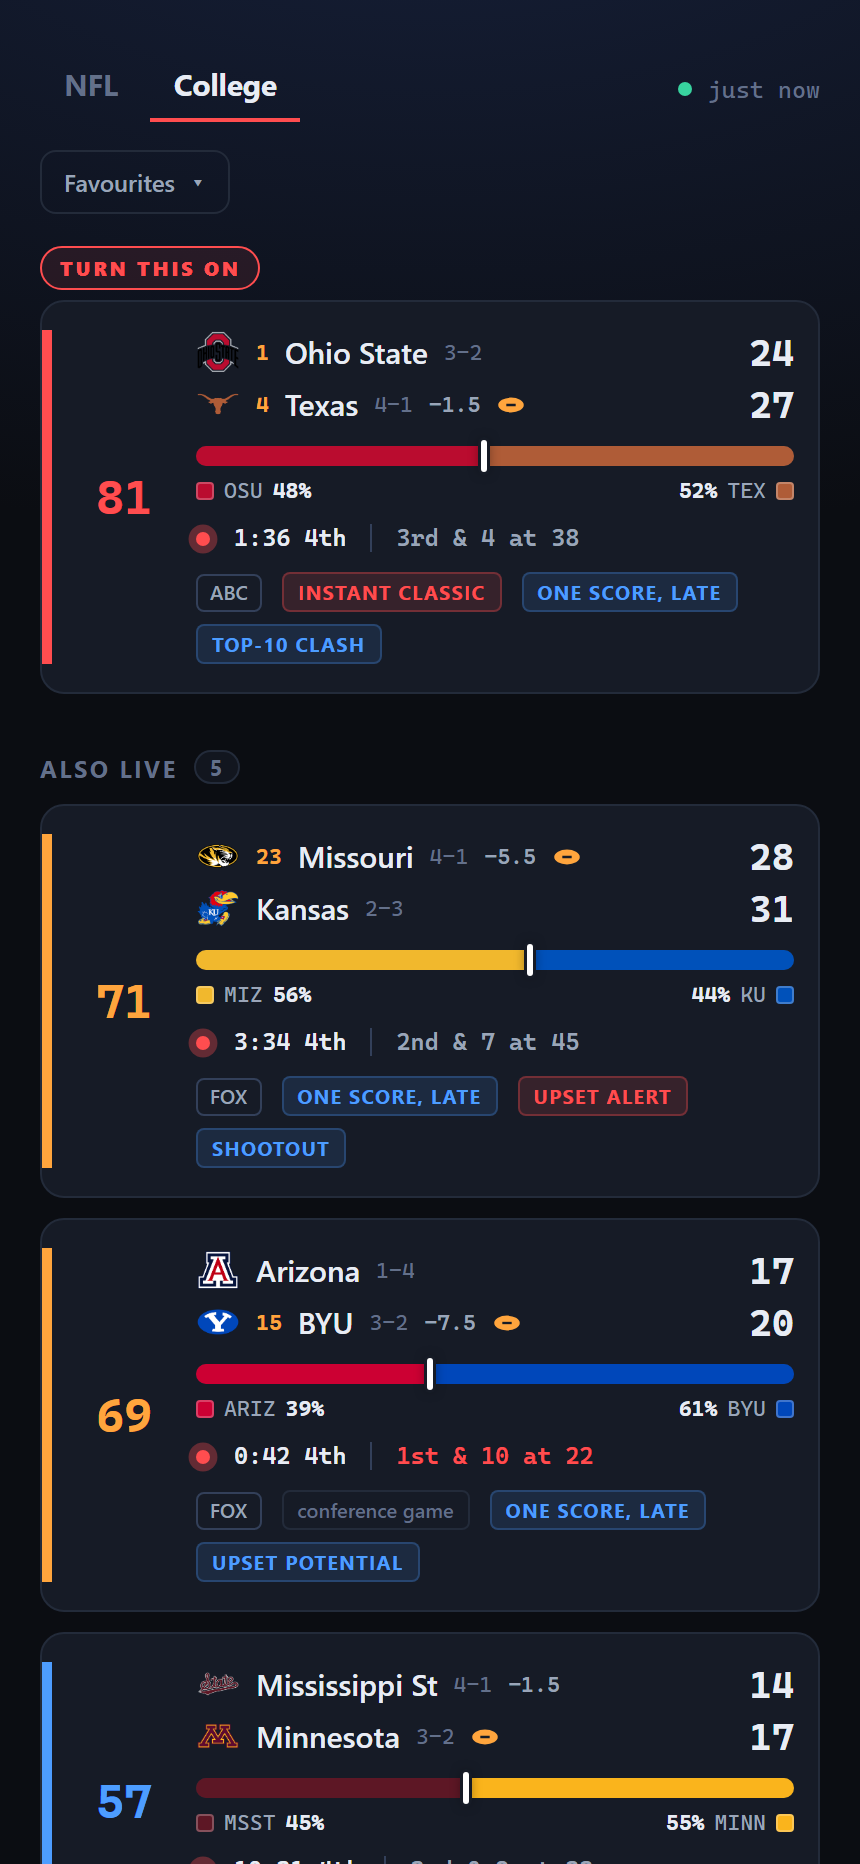
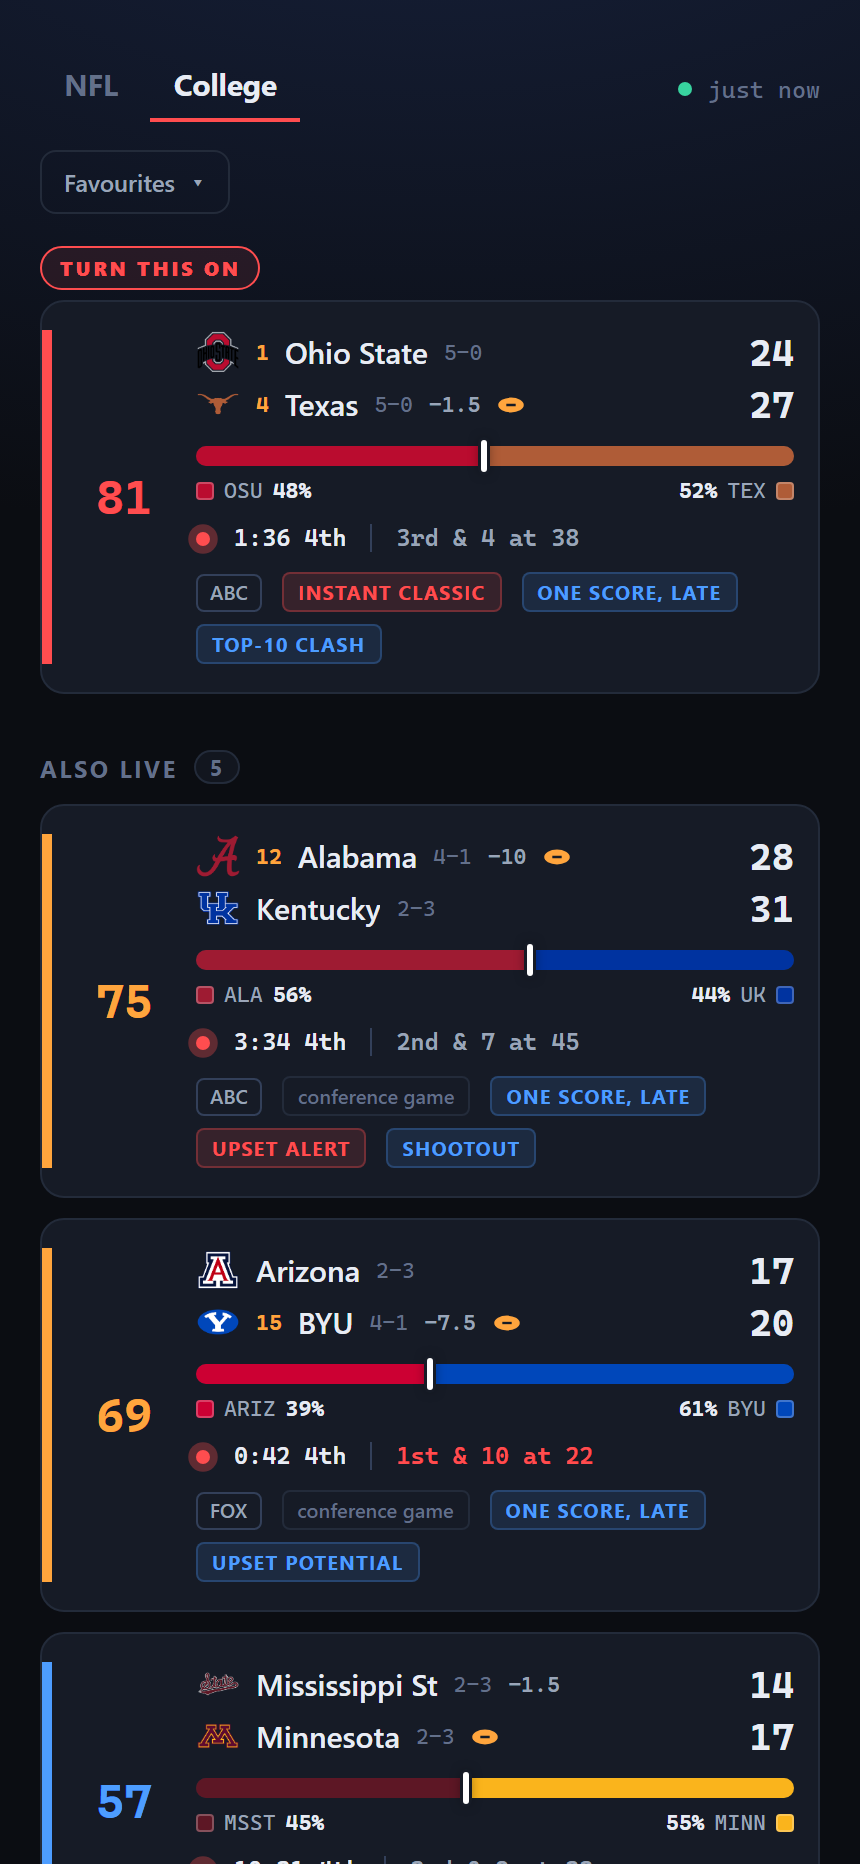
Give the screenshot slate plausible records and a worthy hero game

Changed region(s): [[0.2116, 0.4356, 0.9372, 0.6534], [0.5744, 0.4356, 0.6651, 0.4667], [0.1512, 0.529, 0.1814, 0.5601]]

diff --git a/docs/design-notes.md b/docs/design-notes.md
@@ -284,8 +284,18 @@ Two details were learned the hard way and are worth keeping:
   there is nonsense, the model correctly screams `UPSET ALERT` at every card, and the picture
   stops describing a normal Saturday. The pool is now filtered to games inside ten points, ranked
   teams first.
-- **Records have to be invented too.** In week one every team is 0-0, and a board full of `0-0`
-  photographs as broken rather than as representative.
+- **Records have to be invented too, and plausibly.** In week one every team is 0-0, and a board
+  full of `0-0` photographs as broken. But handing them out by position in the list produced a
+  4-1 Titans and pushed Bills at Texans down the board. A reader does not know the records are
+  props: they see the app rating a bad matchup over a good one and conclude it cannot judge
+  football. NFL records now scale a published set of full-season predictions down to five games;
+  college derives them from the AP rank already on the card, so a number one seed never appears
+  at 3-2.
+- **The drama has to land on a game that deserves it.** Situations are assigned in order and the
+  first is a one-score game inside two minutes, which tops the board whatever it is attached to.
+  Attached to the tightest line on the slate it gave a hero card of 1-4 Jets at 2-3 Titans:
+  correct by the model, and a poor advertisement for it. The pool is ordered by matchup quality
+  first, so the hero is a game a reader would agree earned it.
 
 The postal code in the shots is `10001`, deliberately generic. The feature is worth showing but a
 README is a public page.
